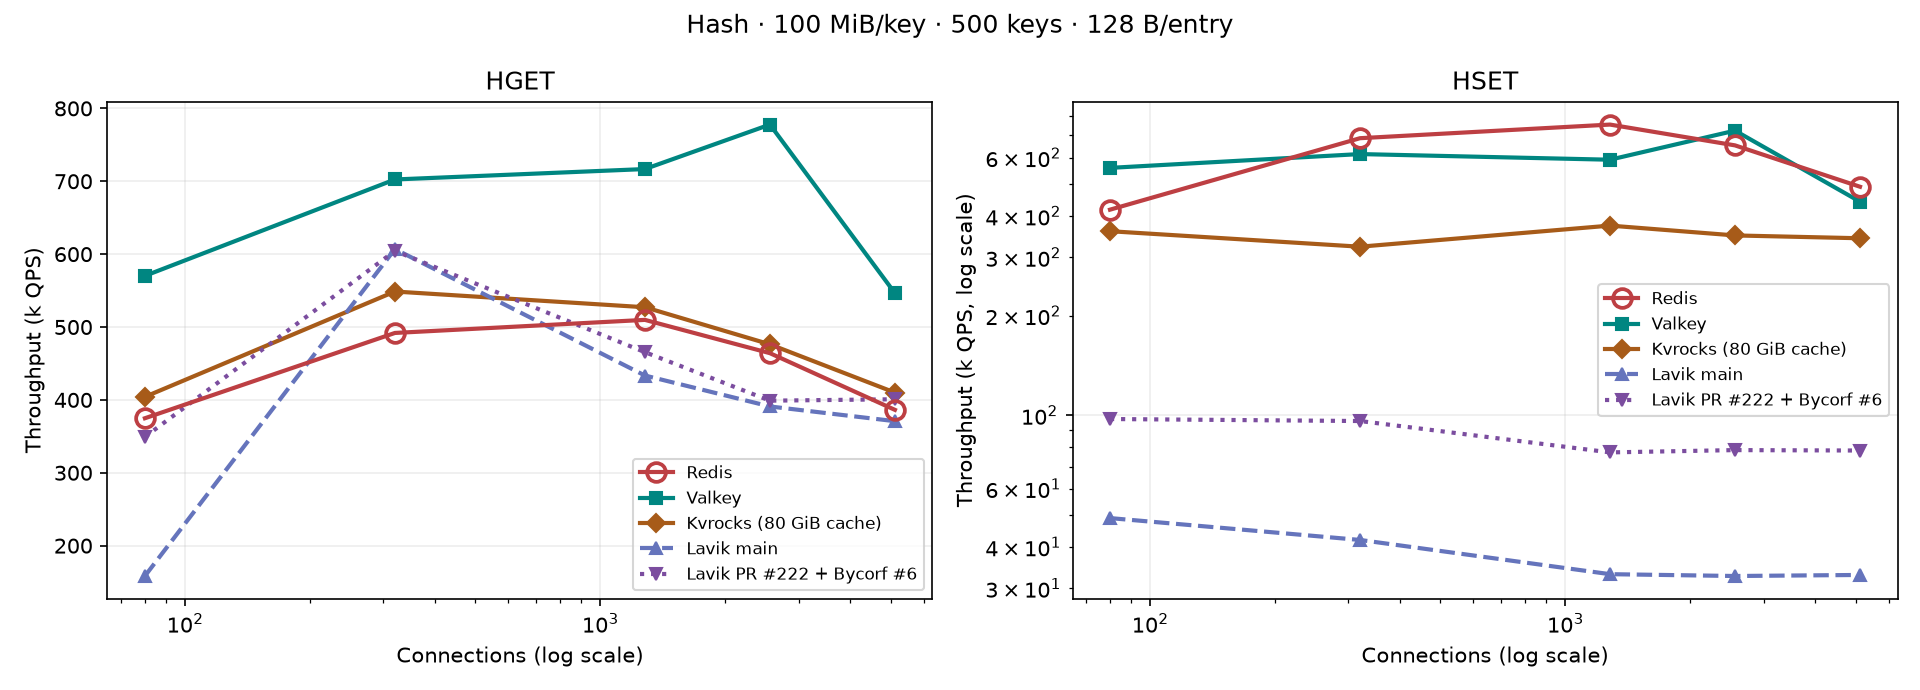
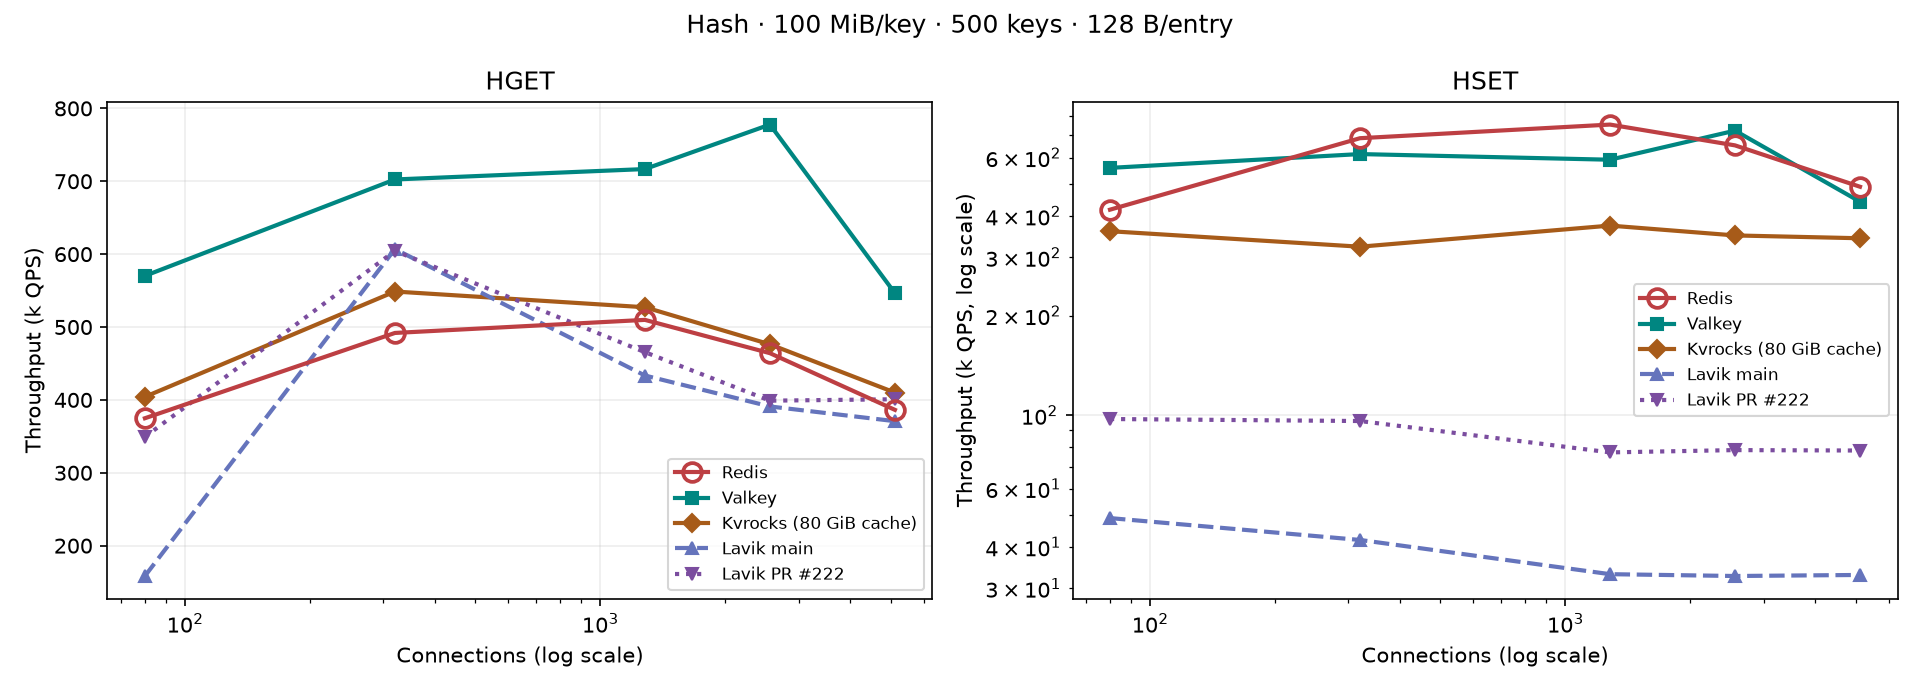
perf: label active Lavik PR without its merged Bycorf prerequisite

Changed region(s): [[0.3125, 0.6696, 0.4688, 0.8522], [0.8125, 0.3957, 0.9688, 0.6087]]

diff --git a/perf_reports/lavik-complex-structures-2026-09-26/README.zh-CN.md b/perf_reports/lavik-complex-structures-2026-09-26/README.zh-CN.md
@@ -24,7 +24,7 @@ HSET：main **3.27–4.89 万 QPS**，PR **7.72–9.74 万 QPS**；
 
 [PR #222](https://github.com/eloqdata/lavik/pull/222) 包含紧凑物理索引、提交完成通知、
 已结束事务的反压检查复用，以及多参数 SADD/HSET 的字段位置索引。
-[Bycorf #6](https://github.com/eloqdata/bycorf/pull/6) 省去 VWC=0 控制器的无效 FLUSH；
+已合并的 [Bycorf #6](https://github.com/eloqdata/bycorf/pull/6) 省去 VWC=0 控制器的无效 FLUSH；
 数据先于 Commit 落盘的规则保持不变。单字段 HSET 测试不使用多参数字段位置索引，不能把本图收益归给该项。
 压测期间 main 又合入 #223（Meta 连接）；代码正同步 rebase，图中版本以本段实测提交为准。
 Set 100 MiB/128 B 暂时只保留上一轮 main `4c26af7b`，正在补测新版 main 与 PR #222；

diff --git a/perf_reports/lavik-complex-structures-2026-09-26/README.md b/perf_reports/lavik-complex-structures-2026-09-26/README.md
@@ -27,7 +27,7 @@ Kvrocks remains at 322.9–374.0k; the write-throughput target is not met.
 
 [PR #222](https://github.com/eloqdata/lavik/pull/222) combines compact physical indexes,
 commit notifications, reuse of owner-verified settled transaction admission state, and positional
-multi-field SADD/HSET indexes. [Bycorf #6](https://github.com/eloqdata/bycorf/pull/6) avoids
+multi-field SADD/HSET indexes. Merged [Bycorf #6](https://github.com/eloqdata/bycorf/pull/6) avoids
 ineffective FLUSH commands on VWC=0 controllers; data-before-commit ordering is preserved.
 This single-field HSET workload does not exercise the multi-field index optimization.
 Main merged #223 (Meta connection handling) during measurement; the code is being rebased,
